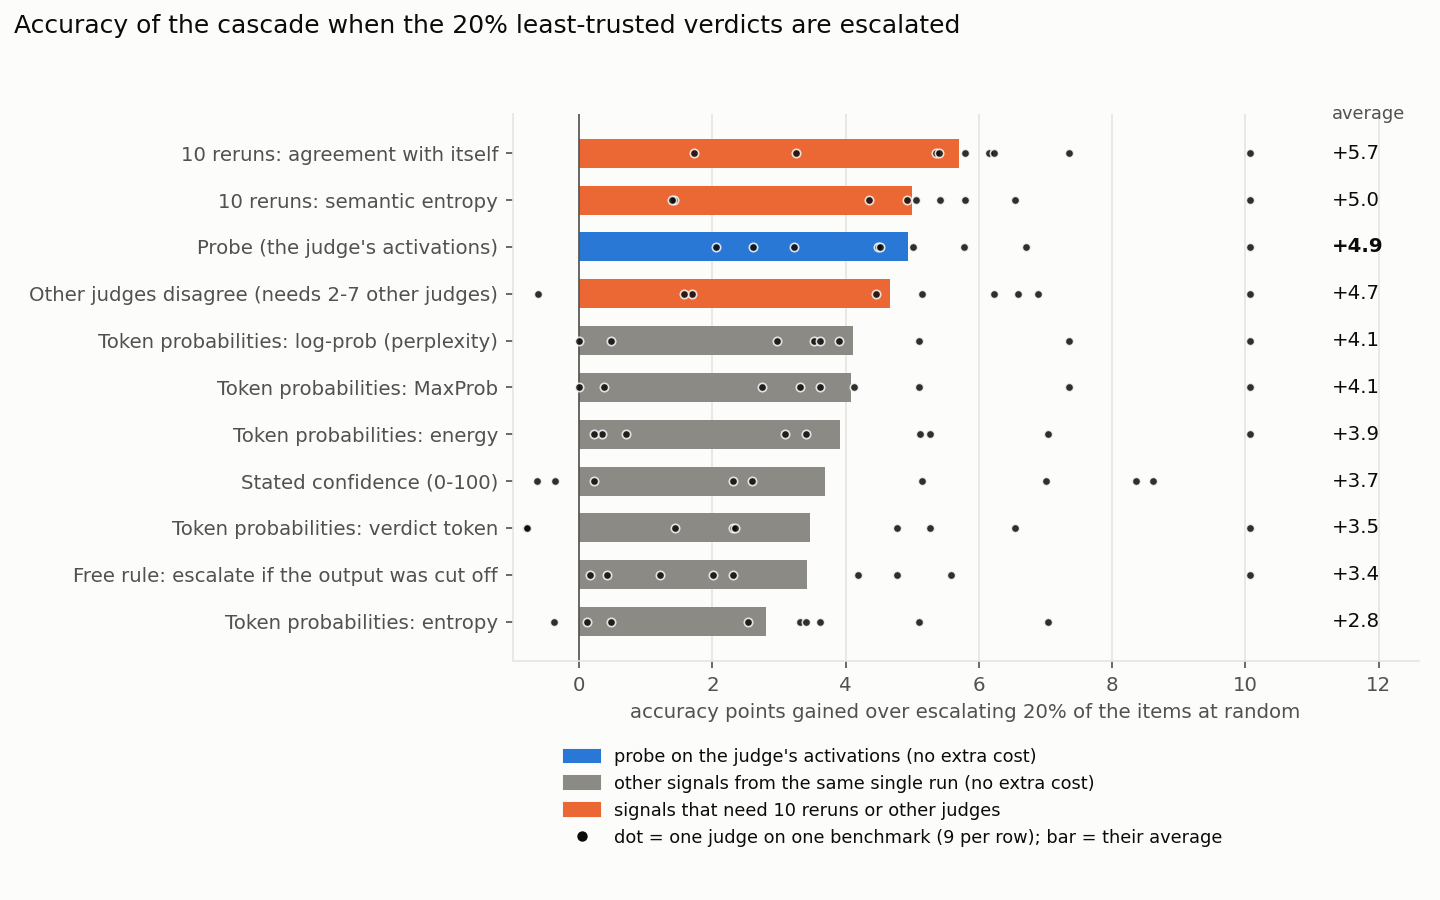
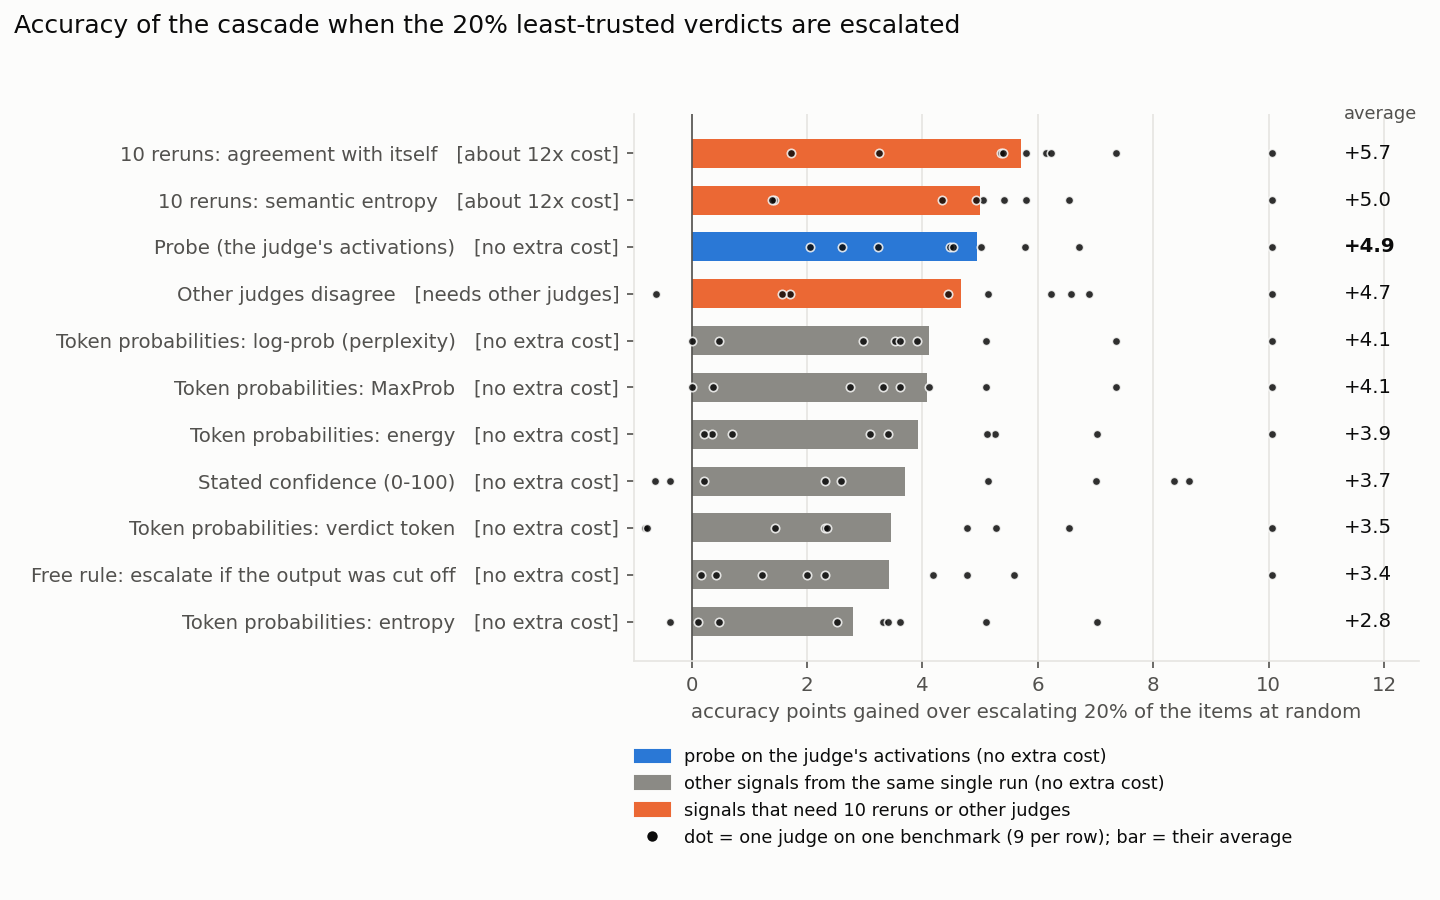
Calibrating LLM Judges README: add the overview figure back, with each signal's extra cost on the chart and a caution about reading the bar order

diff --git a/experiments/calibrating_judges/make_figures.py b/experiments/calibrating_judges/make_figures.py
@@ -53,7 +53,8 @@ def fig_overview(R):
         ax.barh(i, mean[s], color=col[kind(s)], height=0.62, zorder=2)
         ax.scatter(P.loc[s].values, np.full(P.shape[1], i), s=16, color=INK, edgecolor=SURF, linewidth=0.8, zorder=3, alpha=0.85)
         ax.text(11.3, i, f"+{mean[s]:.1f}", va="center", ha="left", fontsize=9.5, color=INK, fontweight="bold" if kind(s) == "probe" else "normal")
-    ax.set_yticks(range(len(mean))); ax.set_yticklabels([NAME[s] for s in mean.index]); ax.set_xlim(-1, 12.6); ax.axvline(0, color=INK2, lw=0.8)
+    COSTTAG = {"consistency (N=10)": "about 12x cost", "semantic entropy (N=10)": "about 12x cost", "other judges disagree": "needs other judges"}
+    ax.set_yticks(range(len(mean))); ax.set_yticklabels([NAME[s].replace(" (needs 2-7 other judges)", "") + "   [" + COSTTAG.get(s, "no extra cost") + "]" for s in mean.index]); ax.set_xlim(-1, 12.6); ax.axvline(0, color=INK2, lw=0.8)
     ax.set_xlabel("accuracy points gained over escalating 20% of the items at random")
     ax.text(11.3, len(mean) - 0.35, "average", fontsize=8.5, color=INK2, ha="left", va="bottom"); ax.grid(axis="y", visible=False)
     fig.suptitle("Accuracy of the cascade when the 20% least-trusted verdicts are escalated", x=0.01, ha="left", fontsize=12, y=0.985)

diff --git a/experiments/calibrating_judges/README.md b/experiments/calibrating_judges/README.md
@@ -43,6 +43,17 @@ Real example: Qwen3.5-4B on RewardBench-2. Random escalation gives 0.814. Escala
 | 10 reruns | the share of 10 new runs that agree with the verdict (also scored by semantic entropy) | about 7 to 12x the generation |
 | Other judges disagree | the share of other judges whose verdict differs | needs 2 to 7 other judges |
 
+## The big picture: which signal chooses best overall?
+
+![Overview of all signals](figures/fig1_signals_overview.png)
+
+Each row is a signal, with its extra cost in brackets. The bar is its score averaged over the 9 settings (3 judges times 3 benchmarks), and each dot is one setting.
+
+- **The top two bars are the 10-reruns signals** (+5.7 and +5.0), but they cost about 7 to 12 times as much generation.
+- **The probe is next (+4.9)** with no extra cost. "Other judges disagree" (+4.7) needs the other judges run.
+- **The other signals that cost nothing extra** score +2.8 to +4.1 (token probabilities), +3.7 (stated confidence) and +3.4 (the free cut-off rule).
+- **Read the order with care.** Neighbouring bars differ by under a point, while the dots within a row spread over several points (the probe's run from +2.0 to +10.1). One average also mixes settings where the probe wins with settings where it loses. The next section separates them by benchmark.
+
 ## Where it works and where it does not
 
 Points above random escalation at 20%, averaged over the 3 judges within each benchmark:
